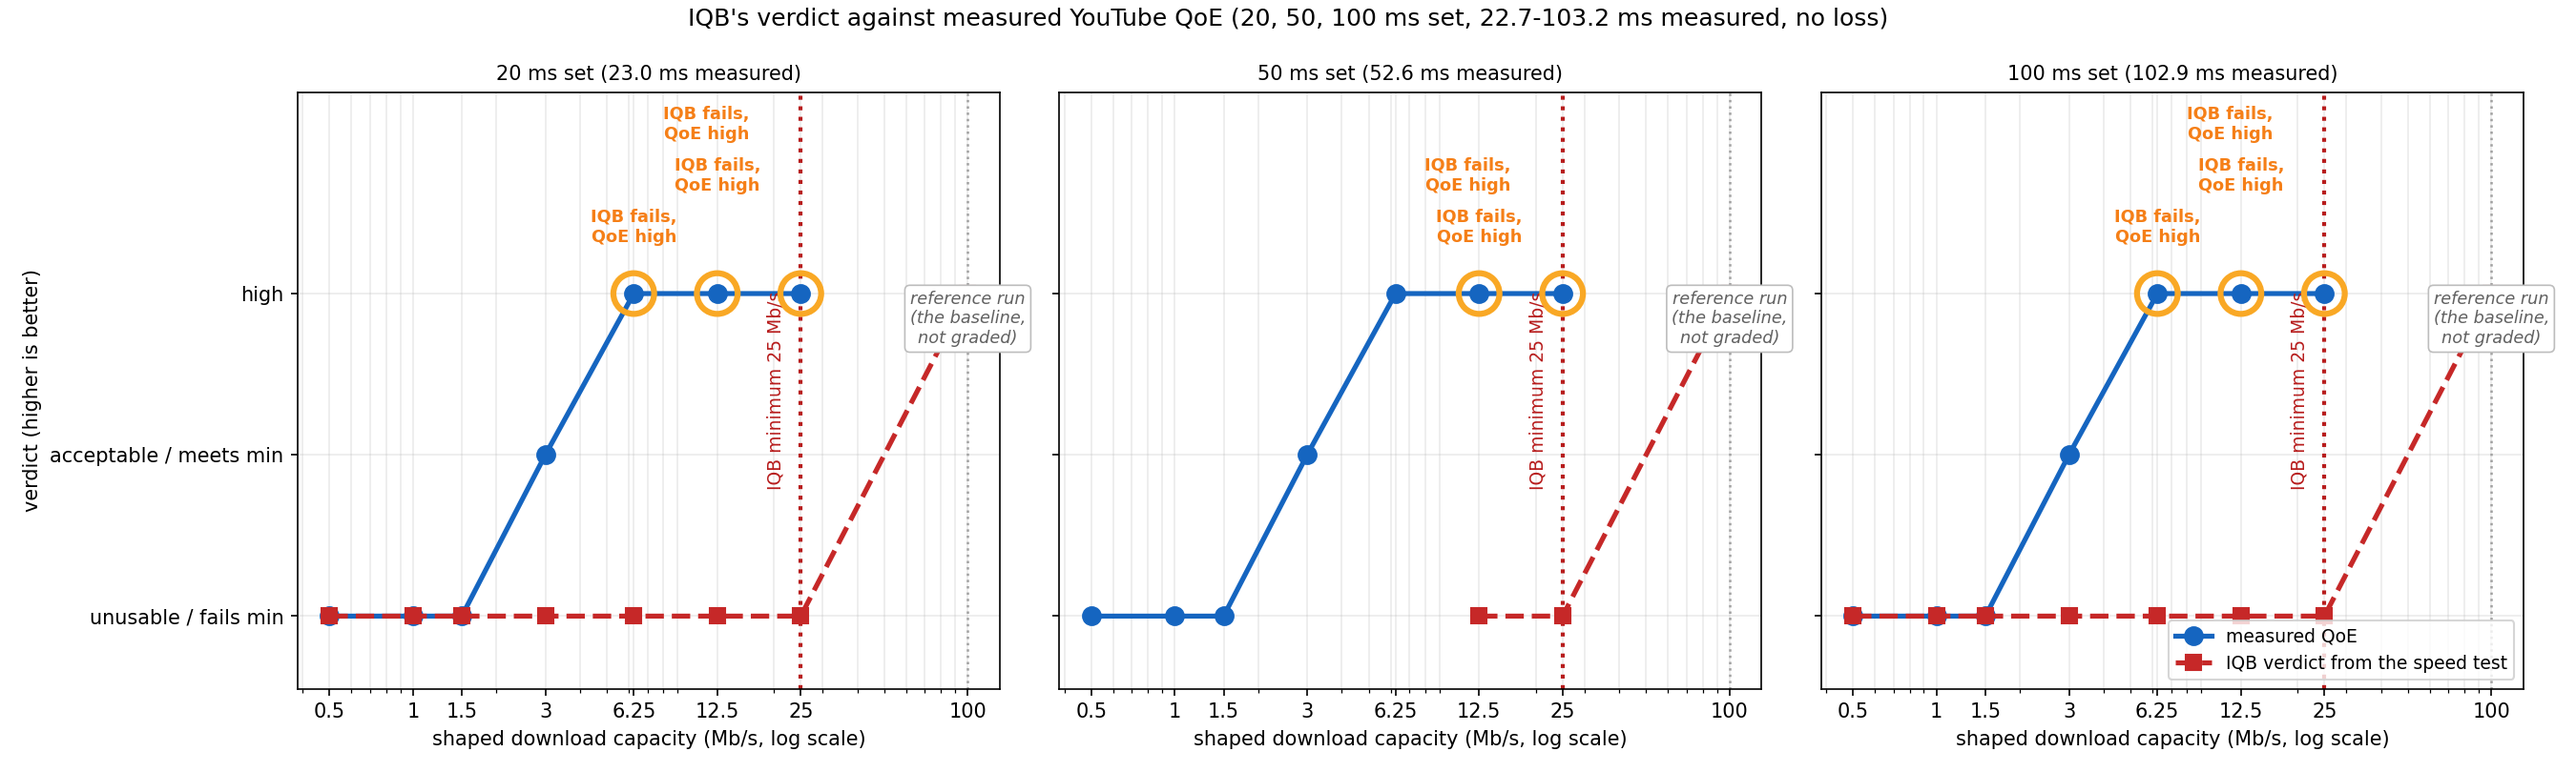
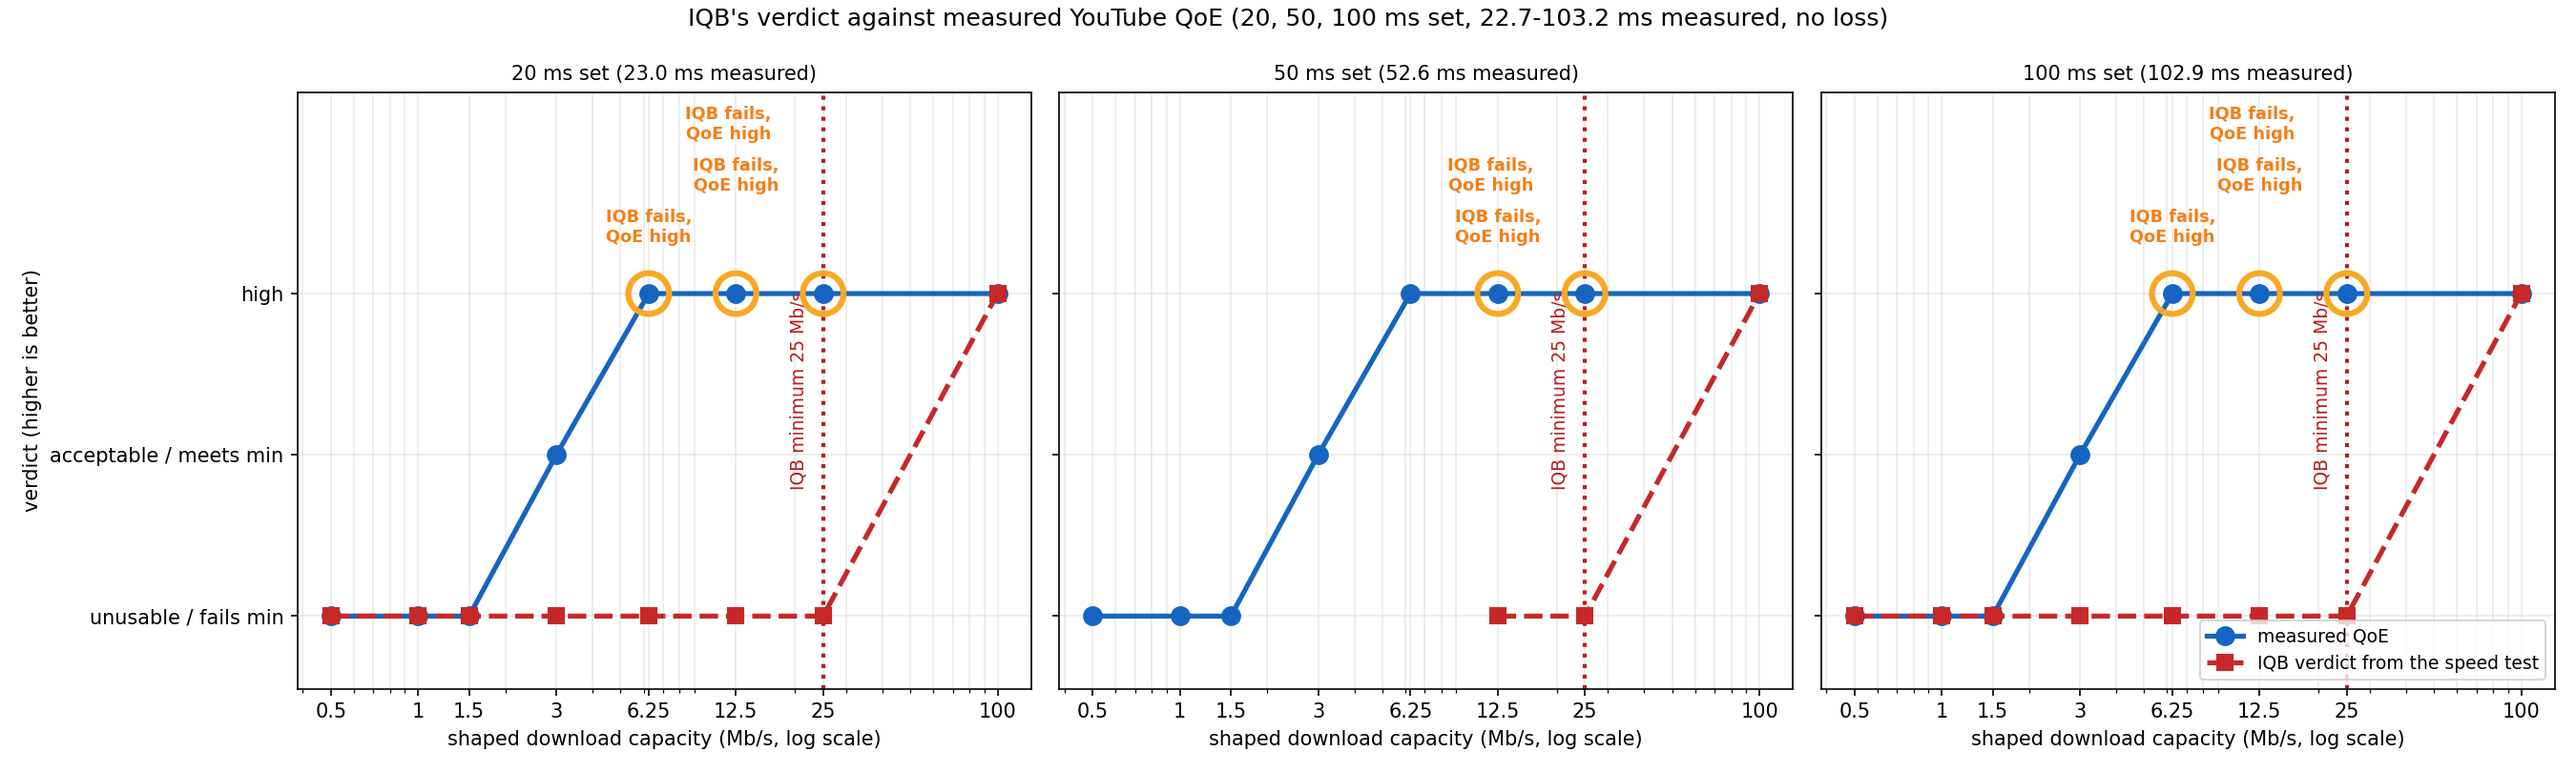
cpuc: label the reference rows, and retire the decode explanation
Three changes. No new sweeps; one single run to settle a claim.

THE REFERENCE ROWS NOW CARRY A VERDICT. Every run is graded relative to its
app's reference, so the reference itself had nothing to be graded against
while the batch was collecting and was written out as `deferred` -- qoe_labels
already said "label assigned in analysis", and this is that analysis. The best
link in the study showing no quality verdict read as a gap rather than as the
control the argument needs.

All three reference rows come out `high`: 720p, 0 rebuffers, startup 2.49,
2.46 and 2.78 s. Grading against itself is not a free pass -- the resolution
test becomes trivially true, but rebuffering and startup are absolute, so a
reference that rebuffered or took 6 s to start would not come out high. That
is why this goes through label_streaming rather than writing "high" into the
table: one definition of the judgement, not two.

THE 720p CEILING IS NOT THIS HOST. conditions.py claimed Vimeo scales to
1080p here, and that claim is what stops the flat 720p line being read as a
property of the VM rather than of the player. It had never been checked on
this box. One Vimeo run at 100 Mb/s / 20 ms -- the same condition as each
sweep's reference -- served 1920x1440 in 85 of 90 samples (480x360 for the
first 5, the startup ramp), 1.38 s startup, 0 rebuffers, and link_interference
clean: 1.00 MB of browser_infra against 118.44 MB of app traffic.
[…]

diff --git a/experiments/cpuc/report.py b/experiments/cpuc/report.py
@@ -26,6 +26,10 @@ sys.path.insert(0, os.path.dirname(os.path.dirname(os.path.abspath(__file__))))
 
 from cpuc import plots  # noqa: E402
 from cpuc.conditions import IQB_VIDEO_STREAMING  # noqa: E402
+from cpuc.qoe_labels import (  # noqa: E402
+    StreamingMetrics,
+    label_streaming,
+)
 
 DL_MIN = IQB_VIDEO_STREAMING["download_min_mbps"]  # 25
 DL_HIGH = IQB_VIDEO_STREAMING["download_high_mbps"][0]  # 50, low end of 50-100
@@ -137,6 +141,42 @@ def load(csv_path):
         return list(csv.DictReader(fh))
 
 
+def grade_reference(t: dict) -> dict:
+    """Label the reference run against ITSELF, at analysis time.
+
+    A run is graded relative to its app's reference, so the reference run has
+    nothing to be graded against while the batch is still collecting and is
+    written out as `deferred` -- qoe_labels says as much: "label assigned in
+    analysis". This is that analysis. The control condition is the one the
+    whole argument leans on, and leaving the best link in the study with no
+    quality verdict reads as a gap rather than as a baseline.
+
+    Grading it against itself is not a free pass. The resolution test becomes
+    trivially true (it is 100% of itself), but the rebuffer and startup tests
+    are absolute and can still fail: a reference run that rebuffered, or took
+    6 s to start, does not come out `high`. That is the point of running it
+    through the same labeller rather than writing "high" into the table.
+    """
+    if t.get("qoe_label") != "deferred" or not t.get("is_reference"):
+        return t
+    res = t.get("resolution_p")
+    if res is None:
+        return t
+    m = StreamingMetrics(
+        startup_delay_s=t.get("startup_s"),
+        resolution_p=int(res),
+        rebuffer_ratio=t.get("rebuffer_ratio"),
+        rebuffer_events=t.get("rebuffer_events"),
+        rebuffer_duration_ms=0.0 if not t.get("rebuffer_events") else None,
+        played=True,
+    )
+    label, reason = label_streaming(m, int(res))
+    t["qoe_label"] = label
+    t["qoe_reason"] = reason
+    t["graded_against_self"] = True
+    return t
+
+
 def build_table(rows):
     """Join the app row and the NDT row for each bandwidth point."""
     apps, ndts = {}, {}
@@ -203,7 +243,7 @@ def build_table(rows):
         row["app_demand_mbps"] = d.get("youtube_avg_mbps")
         row["app_peak_mbps"] = d.get("youtube_peak_mbps")
         row["app_total_mb"] = d.get("youtube_total_mb")
-    return out
+    return [grade_reference(r) for r in out]
 
 
 def latency_caption(table) -> str:
@@ -277,7 +317,22 @@ def markdown_table(table):
                 sus=sus,
             )
         )
-    return hdr + "\n".join(lines)
+    notes = []
+    if any(r.get("graded_against_self") for r in table):
+        notes.append(
+            "*(ref)* is the reference run, graded against itself: its "
+            "resolution is 100% of its own, and the rebuffer and startup "
+            "tests are absolute, so the label is earned rather than granted."
+        )
+    if any(r["suspect"] for r in table):
+        notes.append(
+            "\u26a0 the background-traffic guard failed for that run; see the "
+            "contamination note."
+        )
+    out = hdr + "\n".join(lines)
+    if notes:
+        out += "\n\n" + "\n\n".join(notes)
+    return out
 
 
 def find_degradation(table):
@@ -414,7 +469,12 @@ def main() -> int:
     os.makedirs(args.outdir, exist_ok=True)
     tbl_csv = os.path.join(args.outdir, "iqb_vs_qoe_table.csv")
     with open(tbl_csv, "w", newline="") as fh:
-        w = csv.DictWriter(fh, fieldnames=list(table[0].keys()))
+        # Union, not table[0]: rows carry keys the first row does not.
+        # A reference row gains graded_against_self and a confounded
+        # row gains confounded/confounded_reason, and keying off one
+        # row raises ValueError the moment that happens.
+        cols = list(dict.fromkeys(k for r in table for k in r))
+        w = csv.DictWriter(fh, fieldnames=cols)
         w.writeheader()
         w.writerows(table)
 

diff --git a/experiments/cpuc/conditions.py b/experiments/cpuc/conditions.py
@@ -82,6 +82,20 @@ RunType = Literal["app", "ndt"]
 # 340 (316 served). Vimeo is also the only app measured scaling with bandwidth
 # (240p at 1 Mb/s to 1080p at 10 Mb/s), which separately satisfies the 1080p+
 # source requirement that YouTube cannot meet on auto quality.
+#
+# CONFIRMED on vm4 (2026-11-07), because this claim is what stops YouTube's
+# flat 720p line being read as a property of this host rather than of the
+# player. One Vimeo run at 100 Mb/s / 20 ms -- the same condition as each
+# sweep's reference run -- served 1920x1440 in 85 of 90 samples (480x360 for
+# the first 5, the startup ramp), 1.38 s startup, 0 rebuffers, and
+# link_interference clean (1.00 MB of browser_infra against 118.44 MB of app
+# traffic).
+#
+# The codec matters here: Vimeo delivered that in AV1
+# (av01.0.01M.08.0.111.01.01.01.0). So this host decodes AV1 well past 1080p,
+# and YouTube's 720p ceiling on the same machine is a player-side decision,
+# not a decoder limit. That also weakens the decode explanation offered for
+# the 1080p-viewport supplementary set -- see results_1080p/README.md.
 STREAMING_APPS_PLAN = ("youtube", "twitch", "vimeo")
 
 

diff --git a/experiments/cpuc/results/iqb_vs_qoe_table.md b/experiments/cpuc/results/iqb_vs_qoe_table.md
@@ -1,6 +1,6 @@
 | down Mb/s | RTT set | RTT measured | NDT down | IQB (download) | IQB (all legs) | source offers | resolution chosen | rebuffers | startup | QoE |
 |---|---|---|---|---|---|---|---|---|---|---|
-| 100 *(ref)* | 20 ms | 22.7 ms | 91.28 | meets high | fails minimum (upload) | up to 2160p | 720p | 0 | 2.49 s | deferred |
+| 100 *(ref)* | 20 ms | 22.7 ms | 91.28 | meets high | fails minimum (upload) | up to 2160p | 720p | 0 | 2.49 s | high |
 | 25 | 20 ms | 22.8 ms | 23.21 | fails minimum | fails minimum (download) | up to 2160p | 720p | 0 | 3.01 s | high |
 | 12.5 | 20 ms | 22.7 ms | 11.71 | fails minimum | fails minimum (download) | up to 2160p | 720p | 0 | 2.24 s | high ⚠ |
 | 6.25 | 20 ms | 23.2 ms | 5.84 | fails minimum | fails minimum (download) | up to 2160p | 720p | 0 | 4.07 s | high ⚠ |
@@ -8,7 +8,7 @@
 | 1.5 | 20 ms | 23.3 ms | 1.43 | fails minimum | fails minimum (download) | up to 2160p | 240p | 0 | 14.00 s | unusable ⚠ |
 | 1 | 20 ms | 22.9 ms | 0.96 | fails minimum | fails minimum (download) | up to 2160p | 240p | 1 | 21.47 s | unusable ⚠ |
 | 0.5 | 20 ms | 22.9 ms | 0.48 | fails minimum | fails minimum (download) | up to 2160p | 144p | 1 | 38.90 s | unusable ⚠ |
-| 100 *(ref)* | 50 ms | 52.7 ms | 90.82 | meets high | fails minimum (upload) | up to 2160p | 720p | 0 | 2.46 s | deferred |
+| 100 *(ref)* | 50 ms | 52.7 ms | 90.82 | meets high | fails minimum (upload) | up to 2160p | 720p | 0 | 2.46 s | high |
 | 25 | 50 ms | 52.5 ms | 22.99 | fails minimum | fails minimum (download) | up to 2160p | 720p | 0 | 3.49 s | high ⚠ |
 | 12.5 | 50 ms | 52.7 ms | 11.62 | fails minimum | fails minimum (download) | up to 2160p | 720p | 0 | 2.47 s | high ⚠ |
 | 6.25 | 50 ms | — | — | no ndt | no ndt (download missing) | up to 2160p | 720p | 0 | 4.05 s | high ⚠ |
@@ -16,7 +16,7 @@
 | 1.5 | 50 ms | — | — | no ndt | no ndt (download missing) | up to 2160p | 240p | 0 | 14.69 s | unusable ⚠ |
 | 1 | 50 ms | — | — | no ndt | no ndt (download missing) | up to 2160p | 240p | 0 | 19.95 s | unusable ⚠ |
 | 0.5 | 50 ms | — | — | no ndt | no ndt (download missing) | up to 2160p | 144p | 1 | 40.83 s | unusable ⚠ |
-| 100 *(ref)* | 100 ms | 102.7 ms | 89.83 | meets high | fails minimum (latency) | up to 2160p | 720p | 0 | 2.78 s | deferred |
+| 100 *(ref)* | 100 ms | 102.7 ms | 89.83 | meets high | fails minimum (latency) | up to 2160p | 720p | 0 | 2.78 s | high |
 | 25 | 100 ms | 102.5 ms | 22.37 | fails minimum | fails minimum (download) | up to 2160p | 720p | 0 | 2.80 s | high ⚠ |
 | 12.5 | 100 ms | 102.8 ms | 11.43 | fails minimum | fails minimum (download) | up to 2160p | 720p | 0 | 3.80 s | high ⚠ |
 | 6.25 | 100 ms | 103.2 ms | 5.79 | fails minimum | fails minimum (download) | up to 2160p | 720p | 0 | 4.70 s | high ⚠ |

diff --git a/experiments/cpuc/results_1080p/README.md b/experiments/cpuc/results_1080p/README.md
@@ -65,6 +65,24 @@ This strengthens, rather than weakens, the main sweep's finding: the gap
 between what the link offers and what the player takes is a player-side
 decision, and a speed test measuring the link cannot see it.
 
+## Correction (2026-11-07): the decode explanation does not survive
+
+The reading above — that AV1 software decode is what binds — is **contradicted
+by a direct test on the same host.** One Vimeo run at 100 Mb/s / 20 ms served
+**1920x1440 in 85 of 90 samples**, in **AV1**
+(`av01.0.01M.08.0.111.01.01.01.0`), with 1.38 s startup and no rebuffering.
+
+So this VM decodes AV1 well past 1080p, and "the host cannot decode what it is
+given" cannot be the reason YouTube stopped at 720p here. The dropped-frame
+figures below are real and still reported, but they do not carry the causal
+claim that was attached to them.
+
+**What survives, and it is the part the main sweep needs:** the ceiling is not
+the link and not the viewport, and YouTube's own telemetry reports
+`1280x720@25 / 1920x1080@25` — the player knew 1080p was optimal for this
+element and served 720p anyway. That remains a player-side decision. What it is
+*not* is explained, and this set no longer claims to explain it.
+
 ## Caveat
 
 The viewport was raised, but resolution stayed flat — so this set bounds the
